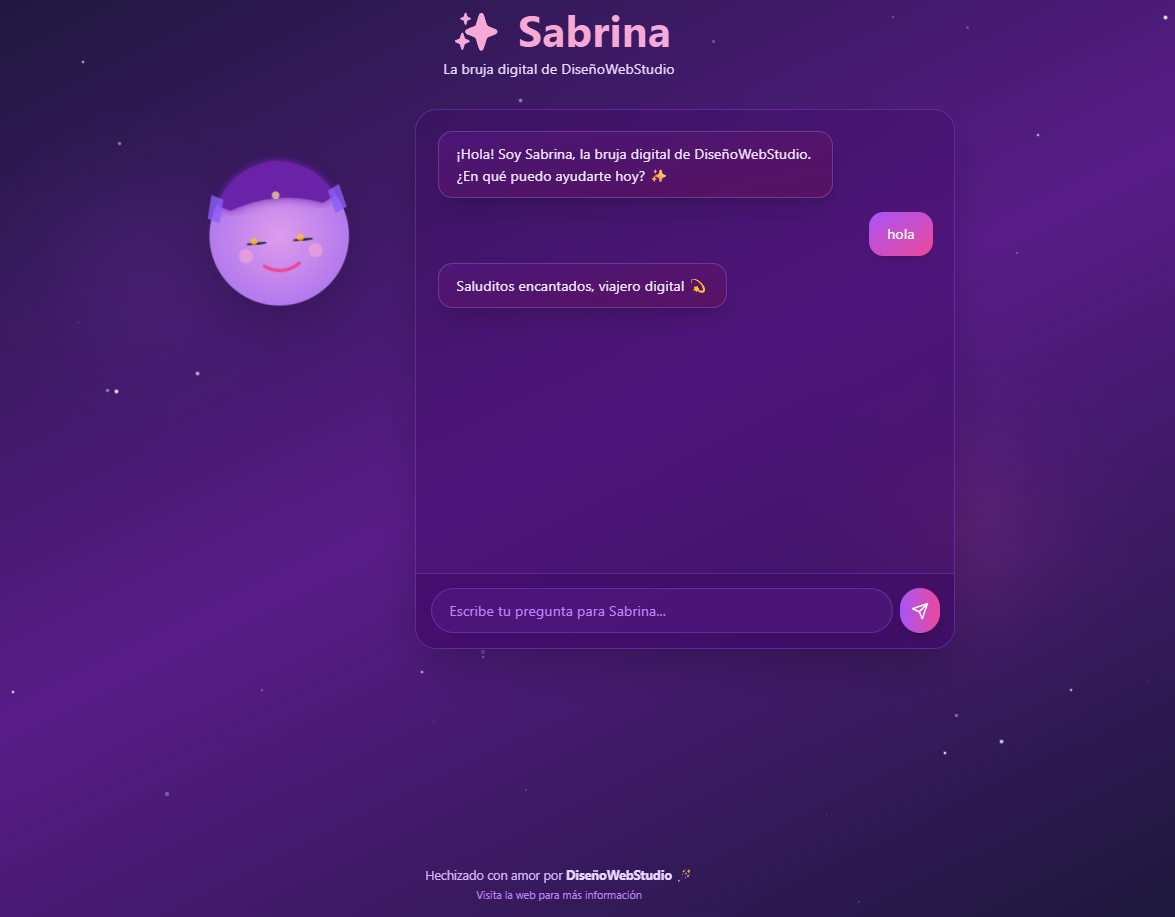
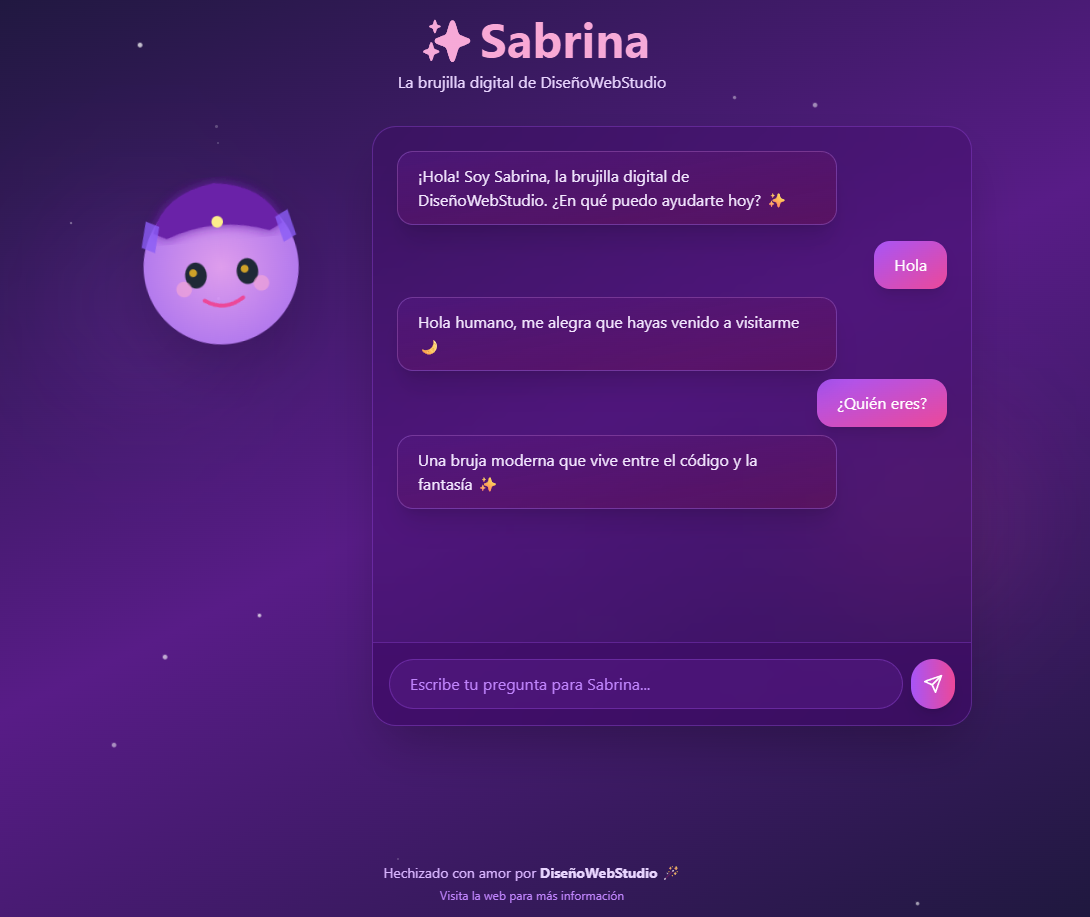
feat add new proyect

diff --git a/src/components/ProjectsEnhanced.tsx b/src/components/ProjectsEnhanced.tsx
@@ -106,13 +106,13 @@ const projects = [
   },
   {
     id: 5,
-    title: 'Blog Platform',
-    description: 'Plataforma de blogging con editor de texto enriquecido, categorías y sistema de comentarios.',
-    fullDescription: 'Plataforma completa de blogging con editor de texto enriquecido tipo Medium, sistema de categorías y etiquetas, comentarios anidados, búsqueda full-text, y sistema de reacciones. Los autores pueden gestionar sus publicaciones, ver estadísticas de lecturas, y los lectores pueden seguir a sus autores favoritos.',
-    image: 'https://images.pexels.com/photos/267350/pexels-photo-267350.jpeg?auto=compress&cs=tinysrgb&w=800',
+    title: 'Sabrian IA Asistente',
+    description: 'Chatbot asistente utilizando api de openAI "Sabrina".',
+    fullDescription: 'Plataforma completa de Chatbot asistente utilizando api de openAI "Sabrina.',
+    image: '/sabrina.png',
     images: [
-      'https://images.pexels.com/photos/267350/pexels-photo-267350.jpeg?auto=compress&cs=tinysrgb&w=800',
-      'https://images.pexels.com/photos/261662/pexels-photo-261662.jpeg?auto=compress&cs=tinysrgb&w=800'
+      '/sabrina.png',
+      '/sabrina.png'
     ],
     tech: ['React', 'Node.js', 'MongoDB', 'JWT', 'Quill.js'],
     categories: ['React', 'Node.js', 'MongoDB'],
@@ -126,8 +126,8 @@ const projects = [
       'Indexación y búsqueda en MongoDB',
       'SEO para aplicaciones Single Page'
     ],
-    github: 'https://github.com/sergioironhacker',
-    demo: 'https://github.com/sergioironhacker'
+    github: 'https://github.com/sergioironhacker/Sabrina-ia',
+    demo: 'sabrina-ia.vercel.app'
   },
   {
     id: 6,
@@ -178,118 +178,116 @@ export default function ProjectsEnhanced() {
     setTimeout(() => setSelectedProject(null), 300);
   };
 
- return (
-  <section ref={ref} id="proyectos" className="py-20 px-4 sm:px-6 lg:px-8 bg-white dark:bg-gray-900">
-    <div className="max-w-7xl mx-auto">
-      <h2 className="text-4xl sm:text-5xl font-bold text-center mb-4 text-gray-900 dark:text-white">
-        Mis Proyectos
-      </h2>
-      <p className="text-center text-gray-600 dark:text-gray-400 mb-8 text-lg">
-        Una selección de mis trabajos más recientes
-      </p>
+  return (
+    <section ref={ref} id="proyectos" className="py-20 px-4 sm:px-6 lg:px-8 bg-white dark:bg-gray-900">
+      <div className="max-w-7xl mx-auto">
+        <h2 className="text-4xl sm:text-5xl font-bold text-center mb-4 text-gray-900 dark:text-white">
+          Mis Proyectos
+        </h2>
+        <p className="text-center text-gray-600 dark:text-gray-400 mb-8 text-lg">
+          Una selección de mis trabajos más recientes
+        </p>
 
-      {/* Filter Buttons */}
-      <div className="flex flex-wrap justify-center gap-3 mb-12">
-        <Filter className="w-5 h-5 text-gray-500 dark:text-gray-400 mt-2.5" />
-        {categories.map((category) => (
-          <button
-            key={category}
-            onClick={() => setSelectedCategory(category)}
-            className={`px-6 py-2 rounded-full font-medium transition-all ${
-              selectedCategory === category
-                ? 'bg-blue-600 text-white shadow-lg scale-105'
-                : 'bg-gray-200 dark:bg-gray-800 text-gray-700 dark:text-gray-300 hover:bg-gray-300 dark:hover:bg-gray-700'
-            }`}
-          >
-            {category}
-          </button>
-        ))}
-      </div>
+        {/* Filter Buttons */}
+        <div className="flex flex-wrap justify-center gap-3 mb-12">
+          <Filter className="w-5 h-5 text-gray-500 dark:text-gray-400 mt-2.5" />
+          {categories.map((category) => (
+            <button
+              key={category}
+              onClick={() => setSelectedCategory(category)}
+              className={`px-6 py-2 rounded-full font-medium transition-all ${selectedCategory === category
+                  ? 'bg-blue-600 text-white shadow-lg scale-105'
+                  : 'bg-gray-200 dark:bg-gray-800 text-gray-700 dark:text-gray-300 hover:bg-gray-300 dark:hover:bg-gray-700'
+                }`}
+            >
+              {category}
+            </button>
+          ))}
+        </div>
 
-      {/* Projects Grid */}
-      <div className="grid grid-cols-1 md:grid-cols-2 lg:grid-cols-3 gap-8">
-        {filteredProjects.map((project, index) => (
-          <div
-            key={project.id}
-            className={`bg-white dark:bg-gray-800 rounded-2xl overflow-hidden shadow-lg hover:shadow-2xl transition-all hover:-translate-y-2 group cursor-pointer transform ${
-              isVisible ? 'translate-y-0 opacity-100' : 'translate-y-10 opacity-0'
-            }`}
-            style={{ transitionDelay: `${index * 100}ms` }}
-            onClick={() => openModal(project)}
-          >
-            {/* Imagen ajustada al contenedor */}
-            <div className="relative w-full h-48 overflow-hidden">
-              <img
-                src={project.image}
-                alt={project.title}
-                className="w-full h-full object-cover transition-transform duration-500 group-hover:scale-105"
-              />
-              <div className="absolute inset-0 bg-gradient-to-t from-black/60 to-transparent opacity-0 group-hover:opacity-100 transition-opacity flex items-center justify-center">
-                <span className="text-white font-semibold text-lg">Ver Detalles</span>
+        {/* Projects Grid */}
+        <div className="grid grid-cols-1 md:grid-cols-2 lg:grid-cols-3 gap-8">
+          {filteredProjects.map((project, index) => (
+            <div
+              key={project.id}
+              className={`bg-white dark:bg-gray-800 rounded-2xl overflow-hidden shadow-lg hover:shadow-2xl transition-all hover:-translate-y-2 group cursor-pointer transform ${isVisible ? 'translate-y-0 opacity-100' : 'translate-y-10 opacity-0'
+                }`}
+              style={{ transitionDelay: `${index * 100}ms` }}
+              onClick={() => openModal(project)}
+            >
+              {/* Imagen ajustada al contenedor */}
+              <div className="relative w-full h-48 overflow-hidden">
+                <img
+                  src={project.image}
+                  alt={project.title}
+                  className="w-full h-full object-cover transition-transform duration-500 group-hover:scale-105"
+                />
+                <div className="absolute inset-0 bg-gradient-to-t from-black/60 to-transparent opacity-0 group-hover:opacity-100 transition-opacity flex items-center justify-center">
+                  <span className="text-white font-semibold text-lg">Ver Detalles</span>
+                </div>
               </div>
-            </div>
 
-            <div className="p-6 space-y-4">
-              <h3 className="text-2xl font-bold text-gray-900 dark:text-white group-hover:text-blue-600 dark:group-hover:text-blue-400 transition-colors">
-                {project.title}
-              </h3>
-              <p className="text-gray-600 dark:text-gray-400 leading-relaxed line-clamp-3">
-                {project.description}
-              </p>
+              <div className="p-6 space-y-4">
+                <h3 className="text-2xl font-bold text-gray-900 dark:text-white group-hover:text-blue-600 dark:group-hover:text-blue-400 transition-colors">
+                  {project.title}
+                </h3>
+                <p className="text-gray-600 dark:text-gray-400 leading-relaxed line-clamp-3">
+                  {project.description}
+                </p>
 
-              <div className="flex flex-wrap gap-2">
-                {project.tech.slice(0, 3).map((tech) => (
-                  <span
-                    key={tech}
-                    className="px-3 py-1 bg-blue-100 dark:bg-blue-900/30 text-blue-600 dark:text-blue-400 rounded-full text-sm font-medium"
+                <div className="flex flex-wrap gap-2">
+                  {project.tech.slice(0, 3).map((tech) => (
+                    <span
+                      key={tech}
+                      className="px-3 py-1 bg-blue-100 dark:bg-blue-900/30 text-blue-600 dark:text-blue-400 rounded-full text-sm font-medium"
+                    >
+                      {tech}
+                    </span>
+                  ))}
+                  {project.tech.length > 3 && (
+                    <span className="px-3 py-1 bg-gray-100 dark:bg-gray-700 text-gray-600 dark:text-gray-400 rounded-full text-sm font-medium">
+                      +{project.tech.length - 3}
+                    </span>
+                  )}
+                </div>
+
+                <div className="flex gap-4 pt-4">
+                  <a
+                    href={project.github}
+                    target="_blank"
+                    rel="noopener noreferrer"
+                    onClick={(e) => e.stopPropagation()}
+                    className="flex-1 flex items-center justify-center gap-2 px-4 py-2 bg-gray-900 dark:bg-gray-700 text-white rounded-lg hover:bg-gray-800 dark:hover:bg-gray-600 transition-colors"
                   >
-                    {tech}
-                  </span>
-                ))}
-                {project.tech.length > 3 && (
-                  <span className="px-3 py-1 bg-gray-100 dark:bg-gray-700 text-gray-600 dark:text-gray-400 rounded-full text-sm font-medium">
-                    +{project.tech.length - 3}
-                  </span>
-                )}
-              </div>
-
-              <div className="flex gap-4 pt-4">
-                <a
-                  href={project.github}
-                  target="_blank"
-                  rel="noopener noreferrer"
-                  onClick={(e) => e.stopPropagation()}
-                  className="flex-1 flex items-center justify-center gap-2 px-4 py-2 bg-gray-900 dark:bg-gray-700 text-white rounded-lg hover:bg-gray-800 dark:hover:bg-gray-600 transition-colors"
-                >
-                  <Github className="w-4 h-4" />
-                  Código
-                </a>
-                <a
-                  href={project.demo}
-                  target="_blank"
-                  rel="noopener noreferrer"
-                  onClick={(e) => e.stopPropagation()}
-                  className="flex-1 flex items-center justify-center gap-2 px-4 py-2 bg-blue-600 text-white rounded-lg hover:bg-blue-700 transition-colors"
-                >
-                  <ExternalLink className="w-4 h-4" />
-                  Demo
-                </a>
+                    <Github className="w-4 h-4" />
+                    Código
+                  </a>
+                  <a
+                    href={project.demo}
+                    target="_blank"
+                    rel="noopener noreferrer"
+                    onClick={(e) => e.stopPropagation()}
+                    className="flex-1 flex items-center justify-center gap-2 px-4 py-2 bg-blue-600 text-white rounded-lg hover:bg-blue-700 transition-colors"
+                  >
+                    <ExternalLink className="w-4 h-4" />
+                    Demo
+                  </a>
+                </div>
               </div>
             </div>
-          </div>
-        ))}
+          ))}
+        </div>
       </div>
-    </div>
 
-    {/* Project Modal */}
-    {selectedProject && (
-      <ProjectModal
-        project={selectedProject}
-        isOpen={isModalOpen}
-        onClose={closeModal}
-      />
-    )}
-  </section>
-);
+      {/* Project Modal */}
+      {selectedProject && (
+        <ProjectModal
+          project={selectedProject}
+          isOpen={isModalOpen}
+          onClose={closeModal}
+        />
+      )}
+    </section>
+  );
 
 }
